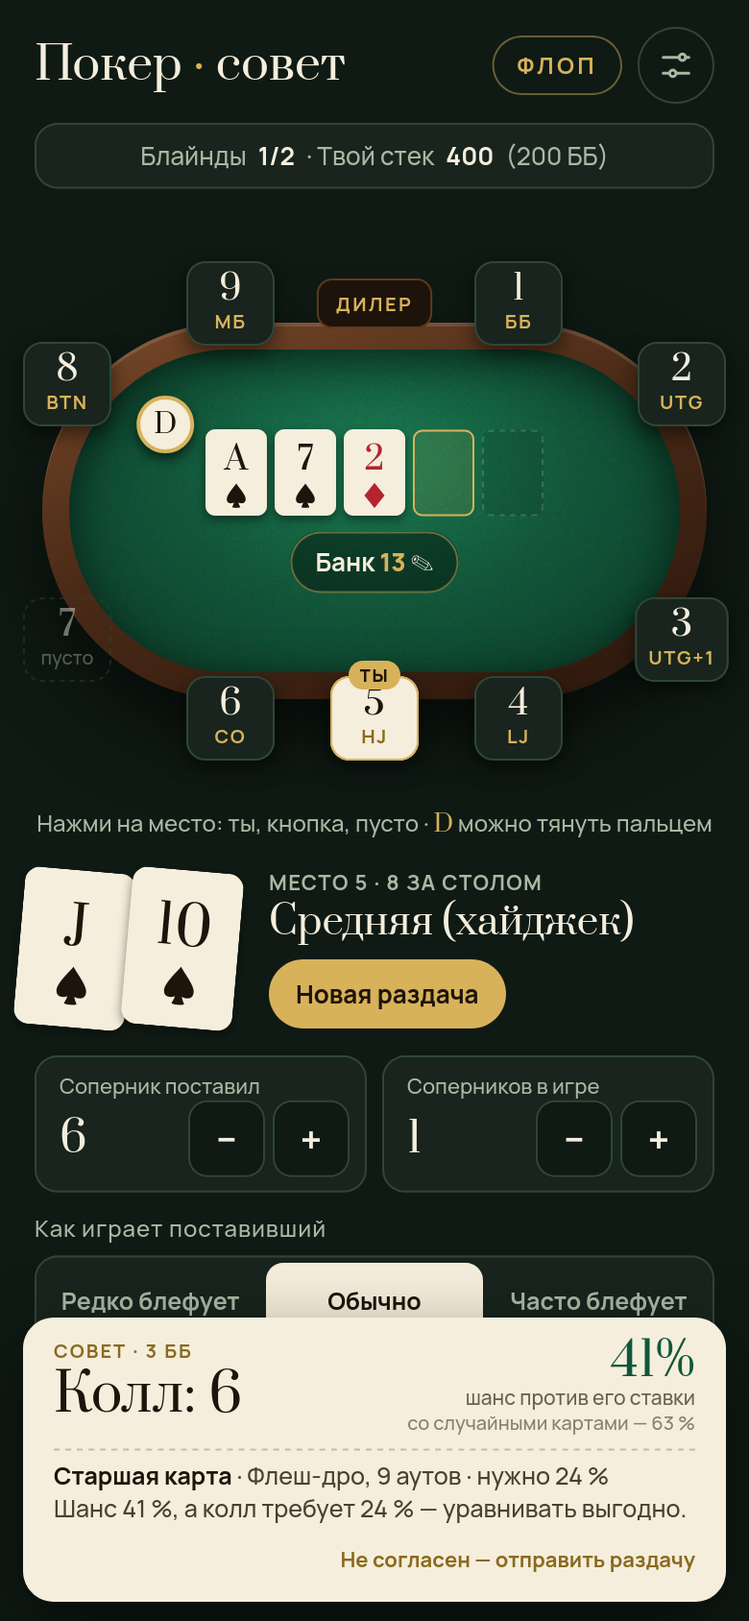
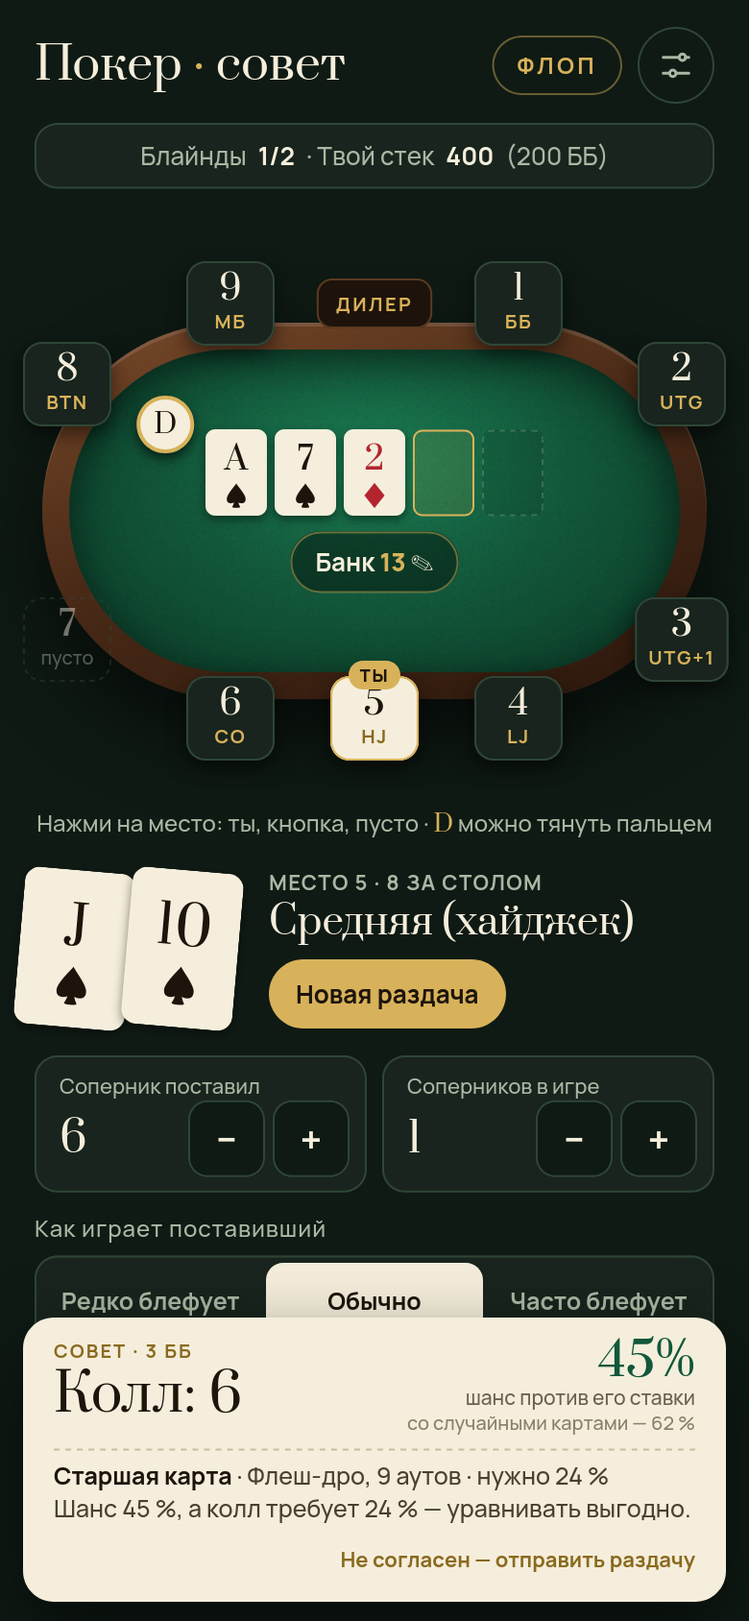
После флопа руки соперника из таблиц солверов (по тому, кто открыл/уравнял/сделал 3-бет)

Changed region(s): [[0.1846, 0.9242, 0.5538, 0.955], [0.5846, 0.9242, 0.9231, 0.955], [0.8, 0.8009, 0.8615, 0.8626]]

diff --git a/src/ranges.js b/src/ranges.js
@@ -3,6 +3,9 @@ import { handClass } from './hands.js';
 import { HAND_RANKS, HAND_RANKS_HU } from './handRanks.js';
 import { rankOf, suitOf } from './cards.js';
 import { evaluate, categoryOf, CATEGORY } from './evaluator.js';
+import { PREFLOP_DATA } from './preflopData.js';
+import { OPEN } from './openTables.js';
+import { parseRange } from './hands.js';
 
 // Сильнейшие классы рук, занимающие долю share от всех 1326 комбинаций.
 // headsUp — рейтинг «один на один» (для ва-банка с коротким стеком).
@@ -21,6 +24,56 @@ export function topClasses(share, headsUp = false) {
 const ALL_COMBOS = [];
 for (let a = 0; a < 52; a++) for (let b = a + 1; b < 52; b++) ALL_COMBOS.push([a, b]);
 export const combosIn = (classes) => ALL_COMBOS.filter(([a, b]) => classes.has(handClass(a, b)));
+
+// ---------- Руки соперников по таблицам солверов ----------
+const CHART = ['LJ', 'HJ', 'CO', 'BTN', 'SB', 'BB'];
+const chartKey = (pos) => (pos ? (CHART.includes(pos.key) ? pos.key : 'LJ') : null);
+
+/** Руки из сводной таблицы с весами: [карта, карта, частота 0…1]. kind — 'raise', 'call' или 'play'. */
+export function chartCombos(situation, kind) {
+  const sit = PREFLOP_DATA[situation];
+  if (!sit) return null;
+  const out = [];
+  for (const [a, b] of ALL_COMBOS) {
+    const row = sit.hands[handClass(a, b)];
+    if (!row) continue;
+    const w = (kind === 'raise' ? row[0] : kind === 'call' ? row[1] : row[0] + row[1]) / 100;
+    if (w > 0.01) out.push([a, b, Math.min(1, w)]);
+  }
+  return out.length ? out : null;
+}
+
+/**
+ * С какими руками соперники пришли на флоп — по таблицам и по тому, кто что сделал.
+ * preflop = { action, hero, raiser, reraiser, heroOpened } (места — positionInfo).
+ * Возвращает { aggressor, others, about } или null (тогда — старая грубая модель).
+ * aggressor — тот, кто повышал последним (или уравнявший, если открывал ты).
+ */
+export function preflopRanges(preflop) {
+  if (!preflop) return null;
+  const { action, hero, raiser, reraiser, heroOpened } = preflop;
+  const heroKey = chartKey(hero);
+  if (action === 'raise' && raiser) {
+    const rk = chartKey(raiser);
+    // Ранние места полного стола (после них 6+ игроков) открывают уже, чем LJ, — таблица 9-max.
+    const aggressor = raiser.behind >= 6
+      ? combosIn(parseRange(OPEN[Math.min(8, raiser.behind)]))
+      : chartCombos(`open:${rk}`, 'raise');
+    // Кто ещё уравнял — не знаем; чаще всего это большой блайнд.
+    const others = chartCombos(`vsopen:BB:${rk}`, 'call') || aggressor;
+    return aggressor ? { aggressor, others, about: `против рук открытия: ${raiser.name}` } : null;
+  }
+  if (action === 'none' && heroKey && heroKey !== 'BB') {
+    // Ты открыл, тебя уравняли — чаще всего большой блайнд.
+    const callers = chartCombos(`vsopen:BB:${heroKey}`, 'call');
+    return callers ? { aggressor: callers, others: callers, about: 'против рук, с которыми большой блайнд уравнивает' } : null;
+  }
+  if (action === '3bet' && heroOpened && reraiser) {
+    const aggressor = chartCombos(`vsopen:${chartKey(reraiser)}:${heroKey}`, 'raise');
+    return aggressor ? { aggressor, others: aggressor, about: 'против рук, с которыми делают 3-бет' } : null;
+  }
+  return null;
+}
 
 // Доля рук, с которой соперник входит в игру префлоп.
 // Повысивший — сильнее, уравнявшие — шире, без повышений — ещё шире.
@@ -66,9 +119,14 @@ export const bluffShare = (betToPot, style = 'normal') =>
  */
 export function valueHands(pre, board, betToPot) {
   const top = betToPot <= 0.5 ? 0.55 : betToPot <= 1.2 ? 0.4 : 0.22;
-  const scored = pre.map((combo) => ({ combo, v: evaluate([combo[0], combo[1], ...board]) }))
+  const boardSet = new Set(board);
+  const scored = pre.filter(([a, b]) => !boardSet.has(a) && !boardSet.has(b))
+    .map((combo) => ({ combo, v: evaluate([combo[0], combo[1], ...board]), w: combo[2] ?? 1 }))
     .sort((x, y) => y.v - x.v);
-  const cut = scored[Math.max(0, Math.ceil(scored.length * top) - 1)]?.v ?? 0;
+  // Лучшие top долей его рук — с учётом того, как часто он их играет.
+  const total = scored.reduce((sum, x) => sum + x.w, 0);
+  let acc = 0, cut = 0;
+  for (const x of scored) { acc += x.w; cut = x.v; if (acc >= total * top) break; }
   const strong = scored.filter((x) => x.v >= cut).map((x) => x.combo);
   if (board.length === 5 || betToPot > 1.2) return strong;
   const inStrong = new Set(strong.map(([a, b]) => a * 52 + b));
@@ -90,12 +148,14 @@ function isDraw(a, b, board) {
  * Первый соперник — тот, кто поставил.
  * Возвращает { ranges, value } — value: диапазон ставящего только «по делу» (без блефов).
  */
-export function opponentRanges({ board, opponents, preflopAction = 'none', bet = 0, potBefore = 0, style = 'normal' }) {
+export function opponentRanges({ board, opponents, preflopAction = 'none', bet = 0, potBefore = 0, style = 'normal', preflop = null }) {
   const aggressorShare = preflopAction === '3bet' ? PREFLOP_SHARE.threeBettor
     : preflopAction === 'raise' ? PREFLOP_SHARE.raiser : PREFLOP_SHARE.open;
   const otherShare = preflopAction === 'raise' || preflopAction === '3bet' ? PREFLOP_SHARE.caller : PREFLOP_SHARE.open;
-  const aggressor = combosIn(topClasses(aggressorShare));
-  const others = combosIn(topClasses(otherShare));
+  // Если знаем, кто что делал до флопа, — руки из таблиц солверов, иначе грубая оценка «лучшие N %».
+  const charts = preflopRanges(preflop);
+  const aggressor = charts?.aggressor ?? combosIn(topClasses(aggressorShare));
+  const others = charts?.others ?? combosIn(topClasses(otherShare));
   const plain = (list) => ({ groups: [list], weights: [1] });
 
   const ranges = [];
@@ -106,7 +166,7 @@ export function opponentRanges({ board, opponents, preflopAction = 'none', bet =
       const betToPot = bet / Math.max(potBefore, 1e-9);
       const strong = valueHands(pre, board, betToPot);
       // Блефуют чаще всего тем, что не попало: из более широкого набора рук.
-      const air = combosIn(topClasses(Math.max(aggressorShare, PREFLOP_SHARE.open)))
+      const air = (charts ? pre : combosIn(topClasses(Math.max(aggressorShare, PREFLOP_SHARE.open))))
         .filter(([a, b]) => !hasSomething(a, b, board));
       const bluff = bluffShare(betToPot, style);
       ranges.push({ groups: [strong, air], weights: [1 - bluff, bluff] });
@@ -115,5 +175,5 @@ export function opponentRanges({ board, opponents, preflopAction = 'none', bet =
       ranges.push(plain(pre));
     }
   }
-  return { ranges, value };
+  return { ranges, value, about: charts?.about ?? null };
 }

diff --git a/src/preflop.js b/src/preflop.js
@@ -2,7 +2,7 @@
 // Уровень — крепкая база для обычной игры с живыми соперниками, не солвер.
 import { handClass, parseRange } from './hands.js';
 import { rankOf } from './cards.js';
-import { topClasses, combosIn, PREFLOP_SHARE } from './ranges.js';
+import { topClasses, combosIn, PREFLOP_SHARE, chartCombos } from './ranges.js';
 import { calcEquity } from './equity.js';
 import { PREFLOP_DATA } from './preflopData.js';
 
@@ -25,19 +25,7 @@ export function chartLookup(situation, cls) {
 const mix = (v) => `рейз ${v.raise} %, колл ${v.call} %, пас ${v.fold} %`;
 const solvers = (v) => `по таблицам ${v.sources} солверов`;
 
-// Открытие (первым входишь в банк) — по опубликованным таблицам солвера для 100 ББ
-// (Preflop Wizard 9-max/6-max, GTO Gecko). Ключ — сколько игроков ходят после тебя:
-// 8 — UTG за полным столом, 5 — UTG за столом на 6, 4 — хайджек, 3 — катофф, 2 — баттон, 1 — МБ.
-const OPEN = {
-  8: '77+, ATs+, KJs+, QJs, JTs, AJo+', // ~9 %
-  7: '66+, A9s+, KTs+, QTs+, JTs, T9s, 98s, AJo+, KQo', // ~12 %
-  6: '55+, A8s+, A5s, KTs+, QTs+, J9s+, T9s, 98s, 87s, ATo+, KQo', // ~15 %
-  5: '22+, A2s+, K9s+, QTs+, JTs, T9s, 98s, 87s, AJo+, KQo', // ~17 %
-  4: '22+, A2s+, K8s+, Q9s+, J9s+, T8s+, 97s+, 87s, 76s, 65s, ATo+, KJo+, QJo', // ~21 %
-  3: '22+, A2s+, K5s+, Q8s+, J8s+, T8s+, 97s+, 86s+, 75s+, 64s+, 54s, A8o+, KTo+, QTo+, JTo', // ~27 %
-  2: '22+, A2s+, K2s+, Q2s+, J4s+, T6s+, 96s+, 85s+, 74s+, 64s+, 53s+, 43s, A2o+, K8o+, Q9o+, J9o+, T9o, 98o', // ~45 %
-  1: '22+, A2s+, K2s+, Q5s+, J7s+, T7s+, 96s+, 86s+, 75s+, 64s+, 54s, A2o+, K9o+, Q9o+, J9o+, T9o', // ~40 %
-};
+import { OPEN } from './openTables.js';
 const openRange = (behind) => OPEN[Math.min(8, Math.max(1, behind))];
 export const OPEN_RANGES = OPEN;
 
@@ -301,7 +289,15 @@ export const ACTION_TEXT = {
  * (кто-то из блайндов уравняет), при лимпах — против лимперов, при повышении —
  * против диапазона повысившего. Возвращает { equity, opponents, label }.
  */
-export function preflopEquity({ hero, action = 'none', limpers = 1, iterations = 3000, random = Math.random }) {
+export function preflopEquity({ hero, action = 'none', limpers = 1, iterations = 3000, random = Math.random, opener = null }) {
+  // Знаем, кто повысил, — его руки из таблиц солверов (открытие с его места).
+  if (action === 'raise' && opener) {
+    const range = opener.behind >= 6 ? combosIn(parseRange(OPEN[Math.min(8, opener.behind)])) : chartCombos(`open:${chartPos(opener)}`, 'raise');
+    if (range) {
+      const { equity } = calcEquity({ hero, opponents: 1, ranges: [{ groups: [range], weights: [1] }], iterations, random });
+      return { equity, opponents: 1, label: `против рук открытия: ${opener.name}` };
+    }
+  }
   if (action === 'raise' || action === '3bet') {
     const range = combosIn(topClasses(action === '3bet' ? PREFLOP_SHARE.threeBettor : PREFLOP_SHARE.raiser));
     const { equity } = calcEquity({ hero, opponents: 1, ranges: [{ groups: [range], weights: [1] }], iterations, random });

diff --git a/app.js b/app.js
@@ -6,7 +6,7 @@ import { handClass } from './src/hands.js';
 import { GEOMETRY, DEALER_XY, SEAT_XY, SEAT_COUNT, activeSeats, seatPosition, nextActive } from './src/table.js';
 
 // Номер версии — поднимать при каждом обновлении вместе с CACHE в sw.js.
-const APP_VERSION = 11;
+const APP_VERSION = 12;
 const $ = (id) => document.getElementById(id);
 const RANK_LABEL = { 10: '10', 11: 'J', 12: 'Q', 13: 'K', 14: 'A' };
 const rankLabel = (r) => RANK_LABEL[r] || String(r);
@@ -283,6 +283,9 @@ const PREFLOP_CHOICES = [
   ['3bet', 'Повысили ×2', 'Повысили, а потом <b>повысили ещё раз</b> (3-бет).'],
 ];
 
+// Место повысившего (не ты) — для таблиц солверов.
+const raiserPos = () => (state.raiser && state.raiser !== state.hero ? seatPosition(state.occupied, state.button, state.raiser) : null);
+
 function seatLabel(n) {
   const pos = seatPosition(state.occupied, state.button, n);
   return n === state.hero ? 'ты' : `место ${n}${pos ? ` (${SHORT[pos.key] || pos.key})` : ''}`;
@@ -454,14 +457,16 @@ function renderTicket() {
         opener: state.raiser && state.raiser !== state.hero ? seatPosition(state.occupied, state.button, state.raiser) : null,
         heroOpened: state.preflop === '3bet' && state.raiser === state.hero,
         threeBettor: state.reraiser ? seatPosition(state.occupied, state.button, state.reraiser) : null });
-      const pe = preflopEquity({ hero, action: state.preflop, limpers: state.limpers });
+      const pe = preflopEquity({ hero, action: state.preflop, limpers: state.limpers, opener: raiserPos() });
       equity = pe.equity;
       gaugeNote = pe.label;
       lines = [`<b>${handClass(hero[0], hero[1])}</b> · ${heroPos.name}`, advice.reason];
     } else {
       const board = state.board.filter((c) => c !== null);
       advice = postflopAdvice({ hero, board, opponents: state.opponents, pot: state.pot,
-        toCall: state.toCall, preflopAction: state.preflop, stack: stackOrInf(), style: state.style, iterations: 6000 });
+        toCall: state.toCall, preflopAction: state.preflop, stack: stackOrInf(), style: state.style, iterations: 6000,
+        preflop: { action: state.preflop, hero: heroPos, raiser: raiserPos(), heroOpened: state.preflop === '3bet' && state.raiser === state.hero,
+          reraiser: state.reraiser ? seatPosition(state.occupied, state.button, state.reraiser) : null } });
       equity = advice.equity;
       const diff = Math.abs(advice.randomEquity - advice.equity) >= 0.05;
       gaugeNote = (state.toCall ? 'шанс против его ставки' : 'шанс выиграть')
@@ -470,6 +475,7 @@ function renderTicket() {
       const need = state.toCall ? ` · нужно ${Math.round((price / (state.pot + state.toCall + price)) * 100)} %` : '';
       const draws = advice.draws.names.length ? ` · ${advice.draws.names.join(', ')}, ${advice.draws.outs} аутов` : '';
       lines = [`<b>${advice.handName}</b>${draws}${need}`, advice.reason];
+      if (advice.about) lines.push(`<span class="about">Шанс посчитан ${advice.about}.</span>`);
       const danger = dangerLine(hero, board);
       if (danger) lines.push(danger);
     }

diff --git a/src/postflop.js b/src/postflop.js
@@ -103,16 +103,18 @@ export function whoBeatsYou(hero, board) {
  * toCall — сколько поставил соперник на этой улице (0 = ставок не было),
  * preflopAction — что было префлоп ('none'/'limp'/'raise'/'3bet'),
  * stack — сколько у тебя осталось денег (Infinity = не важно),
- * style — как блефует поставивший: 'rare' (редко), 'normal', 'often' (часто).
+ * style — как блефует поставивший: 'rare' (редко), 'normal', 'often' (часто),
+ * preflop — кто что делал до флопа ({ action, hero, raiser, reraiser, heroOpened }):
+ *   тогда руки соперников берутся из таблиц солверов.
  * Возвращает { action, amount, text, reason, equity, randomEquity, handName, draws }.
  */
 export function postflopAdvice({
-  hero, board, opponents = 1, pot, toCall = 0, preflopAction = 'none', stack = Infinity, style = 'normal',
+  hero, board, opponents = 1, pot, toCall = 0, preflopAction = 'none', stack = Infinity, style = 'normal', preflop = null,
   iterations = 8000, random = Math.random, compareStyles = true,
 }) {
   if (board.length < 3 || board.length > 5) throw new Error('На столе должно быть 3, 4 или 5 карт');
   const bet = toCall;
-  const { ranges, value } = opponentRanges({ board, opponents, preflopAction, bet, potBefore: pot, style });
+  const { ranges, value, about } = opponentRanges({ board, opponents, preflopAction, bet, potBefore: pot, style, preflop });
   const { equity } = calcEquity({ hero, board, opponents, ranges, iterations, random });
   const randomEquity = calcEquity({ hero, board, opponents, iterations: Math.round(iterations / 3), random }).equity;
   const handName = describeHand(hero, board);
@@ -145,7 +147,7 @@ export function postflopAdvice({
       action: act,
       amount: amount ? chips(amount) : 0,
       text: ACTION_TEXT[act] + (amount ? `${act === 'raise' ? ' до' : ''} ${chips(amount)}` : ''),
-      reason, equity, randomEquity, handName, draws, spr, close,
+      reason, equity, randomEquity, handName, draws, spr, close, about,
     };
   };
 
@@ -190,7 +192,7 @@ export function postflopAdvice({
   // Решение зависит от того, как блефует соперник? Скажем об этом прямо.
   const flip = (other) => {
     if (!compareStyles || style === other) return null;
-    const alt = postflopAdvice({ hero, board, opponents, pot, toCall, preflopAction, stack, style: other,
+    const alt = postflopAdvice({ hero, board, opponents, pot, toCall, preflopAction, stack, style: other, preflop,
       iterations: Math.round(iterations / 2), random, compareStyles: false });
     return alt.action;
   };

diff --git a/src/equity.js b/src/equity.js
@@ -7,8 +7,9 @@ import { evaluate } from './evaluator.js';
  * opponents — сколько соперников с неизвестными картами,
  * known — массив известных рук соперников (для разборов и тестов),
  * ranges — для каждого неизвестного соперника его возможные руки (или null = любые):
- *   { groups: [[[a, b], ...], ...], weights: [0.7, 0.3] } — сначала по весу выбираем
- *   группу (например «сильные руки» или «блеф»), потом случайную руку из неё;
+ *   { groups: [[[a, b, w?], ...], ...], weights: [0.7, 0.3] } — сначала по весу выбираем
+ *   группу (например «сильные руки» или «блеф»), потом случайную руку из неё
+ *   (w — частота руки 0…1, по умолчанию 1);
  * iterations — сколько раздач сыграть, random — свой генератор (для тестов).
  * Возвращает { win, tie, equity } в долях от 1.
  */
@@ -66,8 +67,10 @@ export function calcEquity({
         let roll = random(), g = 0;
         while (g < spec.weights.length - 1 && roll >= spec.weights[g]) roll -= spec.weights[g++];
         const group = spec.groups[g];
-        for (let tries = 0; tries < 40; tries++) {
-          const [x, y] = group[Math.floor(random() * group.length)];
+        for (let tries = 0; tries < 80; tries++) {
+          const [x, y, w = 1] = group[Math.floor(random() * group.length)];
+          // w — как часто соперник играет эту руку (из таблиц): 0,4 = в 40 % случаев.
+          if (w < 1 && random() > w) continue;
           if (!taken[x] && !taken[y]) { a = x; b = y; break; }
         }
       }

diff --git a/src/openTables.js b/src/openTables.js
@@ -1,0 +1,13 @@
+// Открытие (первым входишь в банк) — по опубликованным таблицам солвера для 100 ББ
+// (Preflop Wizard 9-max/6-max, GTO Gecko). Ключ — сколько игроков ходят после тебя:
+// 8 — UTG за полным столом, 5 — UTG за столом на 6, 4 — хайджек, 3 — катофф, 2 — баттон, 1 — МБ.
+export const OPEN = {
+  8: '77+, ATs+, KJs+, QJs, JTs, AJo+', // ~9 %
+  7: '66+, A9s+, KTs+, QTs+, JTs, T9s, 98s, AJo+, KQo', // ~12 %
+  6: '55+, A8s+, A5s, KTs+, QTs+, J9s+, T9s, 98s, 87s, ATo+, KQo', // ~15 %
+  5: '22+, A2s+, K9s+, QTs+, JTs, T9s, 98s, 87s, AJo+, KQo', // ~17 %
+  4: '22+, A2s+, K8s+, Q9s+, J9s+, T8s+, 97s+, 87s, 76s, 65s, ATo+, KJo+, QJo', // ~21 %
+  3: '22+, A2s+, K5s+, Q8s+, J8s+, T8s+, 97s+, 86s+, 75s+, 64s+, 54s, A8o+, KTo+, QTo+, JTo', // ~27 %
+  2: '22+, A2s+, K2s+, Q2s+, J4s+, T6s+, 96s+, 85s+, 74s+, 64s+, 53s+, 43s, A2o+, K8o+, Q9o+, J9o+, T9o, 98o', // ~45 %
+  1: '22+, A2s+, K2s+, Q5s+, J7s+, T7s+, 96s+, 86s+, 75s+, 64s+, 54s, A2o+, K9o+, Q9o+, J9o+, T9o', // ~40 %
+};

diff --git a/sw.js b/sw.js
@@ -1,10 +1,10 @@
 // Офлайн-режим: сначала пробуем интернет (всегда свежая версия),
 // без связи — берём сохранённую копию из телефона.
-const CACHE = 'poker-v11';
+const CACHE = 'poker-v12';
 const FILES = [
   './', 'index.html', 'app.css', 'app.js', 'manifest.webmanifest',
   'src/cards.js', 'src/evaluator.js', 'src/equity.js', 'src/hands.js', 'src/handRanks.js',
-  'src/positions.js', 'src/preflop.js', 'src/postflop.js', 'src/table.js', 'src/ranges.js', 'src/preflopData.js',
+  'src/positions.js', 'src/preflop.js', 'src/postflop.js', 'src/table.js', 'src/ranges.js', 'src/preflopData.js', 'src/openTables.js',
   'fonts/fonts.css', 'fonts/prata-latin.woff2', 'fonts/prata-cyrillic.woff2',
   'fonts/manrope-latin.woff2', 'fonts/manrope-cyrillic.woff2',
   'icons/icon-192.png', 'icons/apple-touch-icon.png',

diff --git a/app.css b/app.css
@@ -182,3 +182,5 @@ h1 em { font-style: normal; color: var(--gold); }
 .seat.is-reraiser::after { content: '3-БЕТ'; }
 .explain .pick { color: var(--gold); }
 .link { color: var(--gold); text-decoration: underline; font-weight: 700; padding: 0 2px; }
+
+.ticket .about { font-size: 11.5px; color: #7a6f5a; }

diff --git a/docs/proverka-sovetov.md b/docs/proverka-sovetov.md
@@ -82,35 +82,35 @@
 | # | Раздача | Карты · стол | Банк / ставка | Совет | Шанс (против любых) | Ждём | |
 |---|---|---|---|---|---|---|---|
 | 71 | Старшая пара с лучшим кикером, тебе чек | As Kd · Ah 7c 2d | 13 / — | **Ставка 8.6** | 89 % (89 %) | ставка | ✅ |
-| 72 | Старшая пара, ставка в полбанка | As Kd · Ah 7c 2d | 13 / 6 | **Колл 6** | 83 % (89 %) | колл или рейз | ✅ |
+| 72 | Старшая пара, ставка в полбанка | As Kd · Ah 7c 2d | 13 / 6 | **Колл 6** | 85 % (89 %) | колл или рейз | ✅ |
 | 73 | Ничего не попало, тебе чек | 7s 6s · Ah Kc 2d | 13 / — | **Чек** | 6 % (21 %) | чек | ✅ |
 | 74 | Ничего не попало, ставка | 7s 6s · Ah Kc 2d | 13 / 9 | **Пас** | 10 % (21 %) | пас | ✅ |
-| 75 | Сет семёрок, ставка | 7s 7d · Kh 7c 2h | 13 / 9 | **Рейз до 27** | 91 % (96 %) | рейз | ✅ |
-| 76 | Флеш-дро, ставка в банк | Js Ts · As 7s 2d | 13 / 13 | **Колл 13** | 41 % (62 %) | колл | ✅ |
+| 75 | Сет семёрок, ставка | 7s 7d · Kh 7c 2h | 13 / 9 | **Рейз до 27** | 90 % (96 %) | рейз | ✅ |
+| 76 | Флеш-дро, ставка в банк | Js Ts · As 7s 2d | 13 / 13 | **Колл 13** | 42 % (62 %) | колл | ✅ |
 | 77 | Флеш-дро, ставка в три банка | Js Ts · As 7s 2d | 13 / 39 | **Пас** | 40 % (62 %) | пас | ✅ |
-| 78 | Двустороннее стрит-дро, ставка в полбанка | 9s 8d · 7c 6h Kd | 13 / 6 | **Колл 6** | 37 % (50 %) | колл | ✅ |
-| 79 | Гатшот, ставка в банк | 9s 8d · 6c 5h Kd | 13 / 13 | **Пас** | 21 % (39 %) | пас | ✅ |
-| 80 | Туз со слабым кикером, ставка в банк | Ad 3c · As Jh 8d | 13 / 13 | **Колл 13** | 53 % (83 %) | колл или пас | ✅ |
+| 78 | Двустороннее стрит-дро, ставка в полбанка | 9s 8d · 7c 6h Kd | 13 / 6 | **Колл 6** | 39 % (50 %) | колл | ✅ |
+| 79 | Гатшот, ставка в банк | 9s 8d · 6c 5h Kd | 13 / 13 | **Пас** | 22 % (39 %) | пас | ✅ |
+| 80 | Туз со слабым кикером, ставка в банк | Ad 3c · As Jh 8d | 13 / 13 | **Колл 13** | 54 % (83 %) | колл или пас | ✅ |
 | 81 | Оверпара QQ, тебе чек | Qs Qd · 8h 5c 2d | 13 / — | **Ставка 8.6** | 78 % (80 %) | ставка | ✅ |
-| 82 | QQ на столе A-K, ставка | Qs Qd · Ah Kc 4d | 13 / 9 | **Колл 9** | 39 % (71 %) | пас или колл | ✅ |
+| 82 | QQ на столе A-K, ставка | Qs Qd · Ah Kc 4d | 13 / 9 | **Колл 9** (если он почти не блефует — пас) | 38 % (71 %) | пас или колл | ✅ |
 | 83 | Ривер: натсовый флеш, ставка | Ah 5h · Kh 9h 2c 7h Js | 40 / 20 | **Рейз до 60** | 100 % (100 %) | рейз или ва-банк | ✅ |
 | 84 | Ривер: младшая пара, огромная ставка | 3s 3d · Kh 9c 7d 5s 2h | 40 / 80 | **Пас** | 15 % (47 %) | пас | ✅ |
-| 85 | Ривер: старшая пара, маленькая ставка | Kd Qc · Kh 9c 7d 5s 2h | 40 / 10 | **Колл 10** | 75 % (87 %) | колл или рейз | ✅ |
-| 86 | Ривер: AA на K-K-8-4-2, ставка в 4 банка (твоя) | Ac Ah · 4d Kc Kd 8s 2c | 250 / 1000 | **Пас** | 12 % (82 %) | пас | ✅ |
-| 87 | Ривер: AA на K-K-8-4-2, ставка в банк | Ac Ah · 4d Kc Kd 8s 2c | 1000 / 1000 | **Колл 1000** | 56 % (90 %) | колл | ✅ |
-| 88 | Ривер: AA на K-K-8-4-2, ставка в полбанка | Ac Ah · 4d Kc Kd 8s 2c | 1000 / 500 | **Колл 500** | 68 % (91 %) | колл | ✅ |
-| 89 | Ривер: QQ на A-8-8-4-2, один (твоя) — зависит от блефа | Qh Qd · 4d Ad 8c 8s 2c | 750 / 500 | **Пас** (если он часто блефует — колл) | 20 % (76 %) | пас или колл | ✅ |
-| 90 | Тёрн: две пары, ставка, трое в игре | Ks 9s · Kh 9c 4d 2s | 30 / 20 | **Рейз до 60** | 85 % (88 %) | рейз или колл | ✅ |
+| 85 | Ривер: старшая пара, маленькая ставка | Kd Qc · Kh 9c 7d 5s 2h | 40 / 10 | **Рейз до 30** | 79 % (87 %) | колл или рейз | ✅ |
+| 86 | Ривер: AA на K-K-8-4-2, ставка в 4 банка (твоя) | Ac Ah · 4d Kc Kd 8s 2c | 250 / 1000 | **Пас** | 30 % (80 %) | пас | ✅ |
+| 87 | Ривер: AA на K-K-8-4-2, ставка в банк | Ac Ah · 4d Kc Kd 8s 2c | 1000 / 1000 | **Колл 1000** | 66 % (90 %) | колл | ✅ |
+| 88 | Ривер: AA на K-K-8-4-2, ставка в полбанка | Ac Ah · 4d Kc Kd 8s 2c | 1000 / 500 | **Колл 500** | 72 % (90 %) | колл | ✅ |
+| 89 | Ривер: QQ на A-8-8-4-2, один (твоя) — зависит от блефа | Qh Qd · 4d Ad 8c 8s 2c | 750 / 500 | **Колл 500** (если он почти не блефует — пас) | 30 % (76 %) | пас или колл | ✅ |
+| 90 | Тёрн: две пары, ставка, трое в игре | Ks 9s · Kh 9c 4d 2s | 30 / 20 | **Рейз до 60** | 85 % (89 %) | рейз или колл | ✅ |
 | 91 | Старшая пара, хороший кикер, трое, чек | As Qd · Qh 8c 3d | 12 / — | **Ставка 7.9** | 62 % (66 %) | ставка | ✅ |
-| 92 | Короткий стек: старшая пара, ставка | As Kd · Kh 8c 3d | 40 / 20 | **Ва-банк 30** | 83 % (90 %) | ва-банк | ✅ |
+| 92 | Короткий стек: старшая пара, ставка | As Kd · Kh 8c 3d | 40 / 20 | **Ва-банк 30** | 84 % (90 %) | ва-банк | ✅ |
 | 93 | Готовый стрит, тебе чек | Jd Ts · 9h 8c 7d | 13 / — | **Ставка 8.6** | 93 % (95 %) | ставка | ✅ |
 | 94 | Оверпара, стек полтора банка, ставка | Qs Qd · 8h 5c 2d | 60 / 30 | **Ва-банк 90** | 76 % (80 %) | ва-банк | ✅ |
-| 95 | Старшая пара, стек 10 банков, ставка в банк | As Kd · Kh 8c 3d | 20 / 20 | **Колл 20** | 79 % (89 %) | колл | ✅ |
+| 95 | Старшая пара, стек 10 банков, ставка в банк | As Kd · Kh 8c 3d | 20 / 20 | **Колл 20** | 81 % (90 %) | колл | ✅ |
 | 96 | Сет, глубокие стеки, ставка | 8s 8d · Kh 8c 3d | 20 / 15 | **Рейз до 45** | 93 % (98 %) | рейз | ✅ |
 | 97 | Две пары, глубокие стеки, ставка | Ks 9s · Kh 9c 4d 2s | 40 / 25 | **Рейз до 75** | 92 % (96 %) | рейз | ✅ |
-| 98 | Флеш-дро на тёрне, полбанка, глубокие стеки | Js Ts · As 7s 2d 4c | 40 / 20 | **Колл 20** | 26 % (43 %) | колл | ✅ |
-| 99 | Флеш-дро на тёрне, ставка в банк, стек маленький | Js Ts · As 7s 2d 4c | 40 / 40 | **Пас** | 26 % (43 %) | пас | ✅ |
-| 100 | Флеш-дро на тёрне, ставка в банк, глубокие стеки | Js Ts · As 7s 2d 4c | 40 / 40 | **Пас** (если он часто блефует — колл) | 25 % (44 %) | колл или пас | ✅ |
-| 101 | Старшая пара, тебе чек, стек меньше банка | Kd 4d · Kh 9c 3s | 60 / — | **Ва-банк 50** | 70 % (83 %) | ва-банк | ✅ |
+| 98 | Флеш-дро на тёрне, полбанка, глубокие стеки | Js Ts · As 7s 2d 4c | 40 / 20 | **Колл 20** | 28 % (43 %) | колл | ✅ |
+| 99 | Флеш-дро на тёрне, ставка в банк, стек маленький | Js Ts · As 7s 2d 4c | 40 / 40 | **Пас** | 26 % (44 %) | пас | ✅ |
+| 100 | Флеш-дро на тёрне, ставка в банк, глубокие стеки | Js Ts · As 7s 2d 4c | 40 / 40 | **Пас** (если он часто блефует — колл) | 26 % (44 %) | колл или пас | ✅ |
+| 101 | Старшая пара, тебе чек, стек меньше банка | Kd 4d · Kh 9c 3s | 60 / — | **Ва-банк 50** | 71 % (83 %) | ва-банк | ✅ |
 
 Не совпало с ожиданием: 0 из 101

diff --git a/CLAUDE.md b/CLAUDE.md
@@ -130,3 +130,7 @@
 - Владелец касанием отмечает на столе, кто повысил (и кто повысил ещё раз; первым может быть он сам).
 - Тесты: для всех 169 рук приложение = таблица (открытие на 5 местах, ББ против BTN).
 - Сервер не нагружать (там сайт магазина): ничего тяжёлого не ставили; солвер — только с nice и 1 потоком.
+- После флопа (2026-10-06): руки соперников из таблиц по тому, кто что делал до флопа (src/ranges.js
+  preflopRanges): повысил X — руки открытия X (ранние места 9-max — таблица 9-max из src/openTables.js),
+  открыл ты — руки, с которыми ББ уравнивает, 3-бет против тебя — руки 3-бета. Веса рук (частоты) учитываются.
+  Не отмечено, кто повысил, или лимпы — старая грубая модель «лучшие N %». В совете строка «Шанс посчитан против …».
